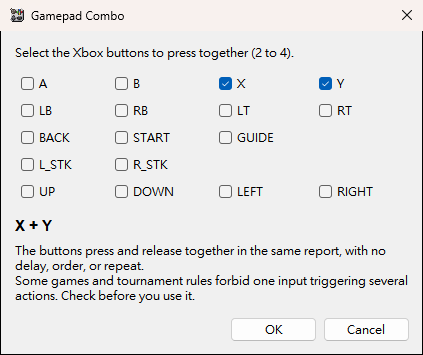
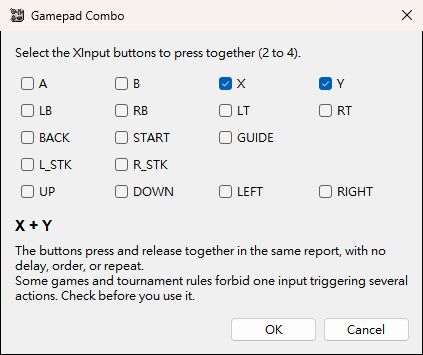
Call the virtual controller XInput instead of Xbox in the UI and docs
Mapping headers, driver hints, status text, the stick trigger mode, and the
gamepad combo picker now say XInput. The guides keep one "XInput-compatible
(Xbox)" line for recognition, and the README trademark notice is unchanged.
The three affected screenshots are updated.

Changed region(s): [[0.1844, 0.1239, 0.7069, 0.1859]]

diff --git a/src/localization.py b/src/localization.py
@@ -970,8 +970,8 @@ EN_TEXT = {
     "輸入方向": "Input Direction",
     "滾輪速度": "Wheel Speed",
     "線性滑鼠滾輪": "Linear Mouse Wheel",
-    "線性 Xbox LT": "Linear Xbox LT",
-    "線性 Xbox RT": "Linear Xbox RT",
+    "線性 XInput LT": "Linear XInput LT",
+    "線性 XInput RT": "Linear XInput RT",
     "映射層": "Layers",
     "只在「混合」模式生效。\n\n0.00 = 只保留遊戲原生震動\n0.35 = 建議起始值（遊戲 65%、音訊 35%）\n1.00 = 只保留音訊震動":
         "Only applies in Mix mode.\n\n0.00 = game rumble only\n0.35 = recommended starting point (65% game, 35% audio)\n1.00 = audio rumble only",
@@ -1371,13 +1371,13 @@ EN_TEXT = {
     "確定要刪除這個方案嗎？": "Delete this profile?",
     "自定義鍵盤映射": "Custom Key Map",
     "自定義輸入映射": "Custom Input Map",
-    "選擇「自訂按鍵」後，按下要映射的輸入。\n\n支援鍵盤單鍵、Ctrl／Shift／Alt／Win 複合鍵，以及滑鼠左鍵、右鍵與中鍵。\n例如：F12、Ctrl + S、Win + D。\n\n選擇「自訂手把組合」可讓一個按鍵同時按下 2 到 4 個 Xbox 按鍵，例如 X + Y。":
-        "Choose Shortcut, then press the input to map.\n\nSupports single keys; Ctrl/Shift/Alt/Win combinations; and left, right, or middle mouse buttons.\nExamples: F12, Ctrl + S, Win + D.\n\nChoose Gamepad Combo to have one button press 2 to 4 Xbox buttons together, such as X + Y.",
+    "選擇「自訂按鍵」後，按下要映射的輸入。\n\n支援鍵盤單鍵、Ctrl／Shift／Alt／Win 複合鍵，以及滑鼠左鍵、右鍵與中鍵。\n例如：F12、Ctrl + S、Win + D。\n\n選擇「自訂手把組合」可讓一個按鍵同時按下 2 到 4 個 XInput 按鍵，例如 X + Y。":
+        "Choose Shortcut, then press the input to map.\n\nSupports single keys; Ctrl/Shift/Alt/Win combinations; and left, right, or middle mouse buttons.\nExamples: F12, Ctrl + S, Win + D.\n\nChoose Gamepad Combo to have one button press 2 to 4 XInput buttons together, such as X + Y.",
     "等待按鍵...": "Press a key...",
     "自訂手把組合": "Gamepad Combo",
     "手把組合鍵": "Gamepad Combo",
-    "勾選要同時按下的 Xbox 按鍵（{low} 到 {high} 個）。":
-        "Select the Xbox buttons to press together ({low} to {high}).",
+    "勾選要同時按下的 XInput 按鍵（{low} 到 {high} 個）。":
+        "Select the XInput buttons to press together ({low} to {high}).",
     "尚未選擇按鍵": "No buttons selected",
     "組合內的按鍵會在同一幀一起按下、一起放開，不含延遲、順序或連發。\n部分遊戲或比賽規則禁止一鍵觸發多個動作，使用前請自行確認。":
         "The buttons press and release together in the same report, with no delay, order, or repeat.\nSome games and tournament rules forbid one input triggering several actions. Check before you use it.",
@@ -1404,8 +1404,8 @@ EN_TEXT = {
     "無法啟動安裝程式": "Could Not Start Installer",
     "ViGEmBus 安裝程式已在執行，請先在安裝視窗完成操作。":
         "The ViGEmBus installer is already running. Complete it in the installer window.",
-    "未偵測到 ViGEmBus 驅動程式。\n\nXbox／XInput 輸出需要此驅動。\n\n安裝程式會從官方來源下載 ViGEmBus，需要網路連線及系統管理員權限。\n\n是否立即執行隨附的安裝程式？":
-        "ViGEmBus was not detected.\n\nThe Xbox/XInput output requires this driver.\n\nThe installer downloads ViGEmBus from the official source and requires internet access and administrator permission.\n\nRun the bundled installer now?",
+    "未偵測到 ViGEmBus 驅動程式。\n\nXInput 輸出需要此驅動。\n\n安裝程式會從官方來源下載 ViGEmBus，需要網路連線及系統管理員權限。\n\n是否立即執行隨附的安裝程式？":
+        "ViGEmBus was not detected.\n\nThe XInput output requires this driver.\n\nThe installer downloads ViGEmBus from the official source and requires internet access and administrator permission.\n\nRun the bundled installer now?",
     "找不到 Install-ViGEmBus.bat。\n\n請確認發佈包內容完整。":
         "Install-ViGEmBus.bat was not found.\n\nMake sure the release package is complete.",
     "無法啟動 ViGEmBus 安裝程式：": "Could not start the ViGEmBus installer:",
@@ -1431,8 +1431,8 @@ EN_TEXT = {
     "連接程式未啟動": "Connector not running",
     "狀態未知": "Unknown state",
     "● ViGEmBus 驅動程式：已安裝": "● ViGEmBus driver: installed",
-    "● 未偵測到 ViGEmBus 驅動程式，目前無法建立 Xbox 虛擬控制器。":
-        "● ViGEmBus driver not found; Xbox virtual controller unavailable.",
+    "● 未偵測到 ViGEmBus 驅動程式，目前無法建立 XInput 虛擬控制器。":
+        "● ViGEmBus driver not found; XInput virtual controller unavailable.",
     "● ViGEm：正常": "● ViGEm: Ready",
     "● ViGEm：缺少": "● ViGEm: Missing",
     "● HidHide：正常": "● HidHide: Ready",
@@ -1443,10 +1443,10 @@ EN_TEXT = {
     "● HidHide：錯誤": "● HidHide: Error",
     "HidHide 狀態錯誤": "HidHide Status Error",
     "尚未安裝 HidHide": "HidHide Not Installed",
-    "未偵測到 HidHide。USB 有線模式仍可使用，但遊戲可能同時收到實體手把與虛擬 Xbox 手把。\n\n是否前往 HidHide 官方下載頁面？":
-        "HidHide was not detected. Wired USB mode can still be used, but games may receive both the physical controller and virtual Xbox controller.\n\nOpen the official HidHide download page?",
-    "未偵測到 HidHide。USB 有線模式仍可使用，但遊戲可能同時收到實體手把與虛擬 Xbox 手把。\n\n是否前往 HidHide 官方下載頁面？\n\n選擇「否」後不再自動提醒；需要時可點擊視窗下方的「HidHide：缺少」。":
-        "HidHide was not detected. Wired USB mode can still be used, but games may receive both the physical controller and virtual Xbox controller.\n\nOpen the official HidHide download page?\n\nChoose No to stop automatic reminders. You can open the download page later by clicking HidHide: Missing at the bottom of the window.",
+    "未偵測到 HidHide。USB 有線模式仍可使用，但遊戲可能同時收到實體手把與虛擬 XInput 手把。\n\n是否前往 HidHide 官方下載頁面？":
+        "HidHide was not detected. Wired USB mode can still be used, but games may receive both the physical controller and virtual XInput controller.\n\nOpen the official HidHide download page?",
+    "未偵測到 HidHide。USB 有線模式仍可使用，但遊戲可能同時收到實體手把與虛擬 XInput 手把。\n\n是否前往 HidHide 官方下載頁面？\n\n選擇「否」後不再自動提醒；需要時可點擊視窗下方的「HidHide：缺少」。":
+        "HidHide was not detected. Wired USB mode can still be used, but games may receive both the physical controller and virtual XInput controller.\n\nOpen the official HidHide download page?\n\nChoose No to stop automatic reminders. You can open the download page later by clicking HidHide: Missing at the bottom of the window.",
     "無法開啟下載頁面": "Could Not Open Download Page",
     "請手動開啟以下網址：": "Open this URL manually:",
     "設定 HidHide": "Set Up HidHide",
@@ -1457,9 +1457,9 @@ EN_TEXT = {
         "Adjustable settings were reset, but HidHide could not be disabled. Close HidHide Configuration Client and try again.",
     "無法讀取 HidHide 設定。請先關閉 HidHide Configuration Client，再重新啟動連接程式。":
         "Could not read HidHide settings. Close HidHide Configuration Client, then restart the connector.",
-    "偵測到 USB 有線手把。為避免遊戲同時收到實體 HID 與虛擬 Xbox 手把，程式可以將實體手把加入 HidHide 隱藏清單，並允許攜帶版 Python 與 Raw HID 量測器繼續讀取。":
+    "偵測到 USB 有線手把。為避免遊戲同時收到實體 HID 與虛擬 XInput 手把，程式可以將實體手把加入 HidHide 隱藏清單，並允許攜帶版 Python 與 Raw HID 量測器繼續讀取。":
         "A wired USB controller was detected. To prevent games from receiving "
-        "both the physical HID and virtual Xbox controller, the app can hide "
+        "both the physical HID and virtual XInput controller, the app can hide "
         "the physical device while allowing the portable Python runtime and "
         "Raw HID probe to read it.",
     "HidHide 全域隱藏目前關閉；繼續將會開啟它。":
@@ -1560,8 +1560,8 @@ EN_TEXT = {
         "esptool flashing failed. Exit code: ",
     "偵測到尚未儲存的設定變更。\n\n是否先儲存設定，再重新啟動連接程式？\n\n是：儲存後重新啟動\n否：不儲存，直接重新啟動\n取消：返回設定畫面":
         "Unsaved changes were detected.\n\nSave before restarting the connector?\n\nYes: save and restart\nNo: restart without saving\nCancel: return to settings",
-    "未偵測到 ViGEmBus 驅動程式。\n\n目前無法啟動 Xbox 虛擬控制器。":
-        "ViGEmBus was not found.\n\nThe Xbox virtual controller cannot start.",
+    "未偵測到 ViGEmBus 驅動程式。\n\n目前無法啟動 XInput 虛擬控制器。":
+        "ViGEmBus was not found.\n\nThe XInput virtual controller cannot start.",
     "找不到 config.ini。\n請將 config_gui.py 放在主程式相同資料夾。":
         "config.ini was not found.\nPlace config_gui.py in the application folder.",
     "左搖桿中心死區必須介於 0.00 ～ 1.00": "Left center DZ must be 0.00–1.00.",
@@ -1632,11 +1632,11 @@ EN_TEXT = {
     "加速度抑制 必須介於 0 ～ 100。": "Accel suppression must be 0–100.",
     "自適應死區 必須介於 0 ～ 100。": "Adaptive DZ must be 0–100.",
     "按鍵防晃 ms 必須介於 0 ～ 120。": "Button freeze must be 0–120 ms.",
-    "按住：只有保持指定手把按鍵時啟用陀螺儀。\n\n切換：按一下啟用，再按一下關閉。\n\n啟動鍵原本的 Xbox／鍵盤映射仍會保留。":
-        "Hold: gyro is active only while the selected controller button is held.\n\nToggle: press once to enable and again to disable.\n\nThe button's original Xbox/keyboard mapping is preserved.",
-    "關閉：不產生任何陀螺儀映射輸出。\n\n按住：只有保持指定手把按鍵時啟用陀螺儀。\n\n切換：按一下啟用，再按一下關閉。\n\n啟動鍵原本的 Xbox／鍵盤映射仍會保留。":
-        "Off: no gyro-mapping output is produced.\n\nHold: gyro is active only while the selected controller button is held.\n\nToggle: press once to enable and again to disable.\n\nThe button's original Xbox/keyboard mapping is preserved.",
-    "關閉：不產生任何陀螺儀映射輸出。\n\n按住：選定按鍵符合任一／全部條件時啟用。\n\n切換：條件由未成立變成成立時切換一次。\n\n可選多顆按鍵；原本的 Xbox／鍵盤映射仍會保留。":
+    "按住：只有保持指定手把按鍵時啟用陀螺儀。\n\n切換：按一下啟用，再按一下關閉。\n\n啟動鍵原本的 XInput／鍵盤映射仍會保留。":
+        "Hold: gyro is active only while the selected controller button is held.\n\nToggle: press once to enable and again to disable.\n\nThe button's original XInput/keyboard mapping is preserved.",
+    "關閉：不產生任何陀螺儀映射輸出。\n\n按住：只有保持指定手把按鍵時啟用陀螺儀。\n\n切換：按一下啟用，再按一下關閉。\n\n啟動鍵原本的 XInput／鍵盤映射仍會保留。":
+        "Off: no gyro-mapping output is produced.\n\nHold: gyro is active only while the selected controller button is held.\n\nToggle: press once to enable and again to disable.\n\nThe button's original XInput/keyboard mapping is preserved.",
+    "關閉：不產生任何陀螺儀映射輸出。\n\n按住：選定按鍵符合任一／全部條件時啟用。\n\n切換：條件由未成立變成成立時切換一次。\n\n可選多顆按鍵；原本的 XInput／鍵盤映射仍會保留。":
         "Off: no gyro output.\n\nHold: active while the selected Any/All rule is satisfied.\n\nToggle: switches once when the rule changes from false to true.\n\nMultiple buttons are supported and their original mappings remain active.",    "回中：依陀螺儀角速度輸出，停止轉動便自動回中，適合瞄準。\n\n傾斜：以手把相對於啟用瞬間的傾斜角度控制搖桿，適合方向盤；僅支援左右搖桿輸出。\n\n自訂重設按鍵會專門用於重設中立，不再送出原本的遊戲映射。":
         "Center maps angular speed and recenters when rotation stops.\n\nTilt maps angle relative to activation and supports stick output only.\n\nThe custom recenter button is intercepted and no longer sends its game mapping.",
     "回中模式：陀螺儀角速度轉成搖桿偏移的倍率。\n僅用於回中模式。":

diff --git a/src/config_gui.py b/src/config_gui.py
@@ -4602,7 +4602,7 @@ class ConfigGUI:
         confirmed = messagebox.askyesno(
             "安裝 ViGEmBus",
             "未偵測到 ViGEmBus 驅動程式。\n\n"
-            "Xbox／XInput 輸出需要此驅動。\n\n"
+            "XInput 輸出需要此驅動。\n\n"
             "安裝程式會從官方來源下載 ViGEmBus，需要網路連線及"
             "系統管理員權限。\n\n"
             "是否立即執行隨附的安裝程式？"
@@ -5031,7 +5031,7 @@ class ConfigGUI:
                 self.tr("尚未安裝 HidHide"),
                 self.tr(
                     "未偵測到 HidHide。USB 有線模式仍可使用，但遊戲可能同時收到"
-                    "實體手把與虛擬 Xbox 手把。\n\n是否前往 HidHide 官方下載頁面？"
+                    "實體手把與虛擬 XInput 手把。\n\n是否前往 HidHide 官方下載頁面？"
                     "\n\n選擇「否」後不再自動提醒；需要時可點擊視窗下方的"
                     "「HidHide：缺少」。"
                 ),
@@ -5053,7 +5053,7 @@ class ConfigGUI:
             return True
 
         message = self.tr(
-            "偵測到 USB 有線手把。為避免遊戲同時收到實體 HID 與虛擬 Xbox 手把，"
+            "偵測到 USB 有線手把。為避免遊戲同時收到實體 HID 與虛擬 XInput 手把，"
             "程式可以將實體手把加入 HidHide 隱藏清單，並允許攜帶版 Python "
             "與 Raw HID 量測器繼續讀取。"
         )
@@ -7725,8 +7725,8 @@ class ConfigGUI:
     def stick_mode_label(self, mode):
         labels = {
             "MOUSE_WHEEL_LINEAR": "線性滑鼠滾輪",
-            "XINPUT_LT_LINEAR": "線性 Xbox LT",
-            "XINPUT_RT_LINEAR": "線性 Xbox RT",
+            "XINPUT_LT_LINEAR": "線性 XInput LT",
+            "XINPUT_RT_LINEAR": "線性 XInput RT",
         }
         return self.tr(labels.get(str(mode), str(mode)))
 
@@ -8434,7 +8434,7 @@ class ConfigGUI:
             self.open_gamepad_combo_dialog(variable)
 
     def open_gamepad_combo_dialog(self, variable):
-        """Pick 2-4 Xbox buttons that one input presses in the same report."""
+        """Pick 2-4 XInput buttons that one input presses in the same report."""
         self._track_custom_mapping_variable(variable)
         previous_mapping = getattr(variable, "_s2p_last_valid_mapping", "NONE")
         state = {"committed": False}
@@ -8448,7 +8448,7 @@ class ConfigGUI:
         columns = 4
         ttk.Label(
             frame,
-            text=self.tr("勾選要同時按下的 Xbox 按鍵（{low} 到 {high} 個）。").format(
+            text=self.tr("勾選要同時按下的 XInput 按鍵（{low} 到 {high} 個）。").format(
                 low=COMBO_MIN_MEMBERS, high=COMBO_MAX_MEMBERS,
             ),
         ).grid(row=0, column=0, columnspan=columns, sticky="w", pady=(0, 8))
@@ -9977,7 +9977,7 @@ class ConfigGUI:
         ttk.Label(button_inner, text="Switch 2 Pro", anchor="e").grid(
             row=0, column=0, sticky="e", padx=(0, 8), pady=(0, 5)
         )
-        ttk.Label(button_inner, text="XInput / Xbox", anchor="w").grid(
+        ttk.Label(button_inner, text="XInput", anchor="w").grid(
             row=0, column=1, sticky="w", pady=(0, 5)
         )
         button_vars = {}

diff --git a/src/gui_sections/mapping_buttons.py b/src/gui_sections/mapping_buttons.py
@@ -37,7 +37,7 @@ def build_mapping_buttons_section(gui, right_frame):
     ttk.Label(mapping_frame, text="Switch 2 Pro").grid(
         row=0, column=0, sticky="e", padx=(0, 8), pady=(0, 4)
     )
-    ttk.Label(mapping_frame, text="XInput / Xbox").grid(
+    ttk.Label(mapping_frame, text="XInput").grid(
         row=0, column=1, sticky="w", pady=(0, 4)
     )
 
@@ -102,7 +102,7 @@ def build_mapping_buttons_section(gui, right_frame):
         "支援鍵盤單鍵、Ctrl／Shift／Alt／Win 複合鍵，"
         "以及滑鼠左鍵、右鍵與中鍵。\n"
         "例如：F12、Ctrl + S、Win + D。\n\n"
-        "選擇「自訂手把組合」可讓一個按鍵同時按下 2 到 4 個 Xbox 按鍵，"
+        "選擇「自訂手把組合」可讓一個按鍵同時按下 2 到 4 個 XInput 按鍵，"
         "例如 X + Y。"
     ).place(
         relx=1.0,

diff --git a/tests/test_language_audit.py b/tests/test_language_audit.py
@@ -155,7 +155,7 @@ class LanguageAuditTests(unittest.TestCase):
             "按鍵映射", "搖桿方向映射", "左搖桿", "右搖桿",
             "模式", "死區", "觸發", "放開", "滑鼠速度", "中心死區",
             "輸入方向", "映射為右搖桿", "映射為左搖桿", "映射為滑鼠",
-            "線性滑鼠滾輪", "線性 Xbox LT", "線性 Xbox RT",
+            "線性滑鼠滾輪", "線性 XInput LT", "線性 XInput RT",
             "複製主要映射", "還原", "儲存", "取消",
         )
         for source in texts:

diff --git a/src/main.py b/src/main.py
@@ -404,7 +404,7 @@ def _run_connector():
             charging=False,
         )
         print()
-        print(tr("無法建立 Xbox 虛擬控制器。", "Could not create the Xbox virtual controller."))
+        print(tr("無法建立 XInput 虛擬控制器。", "Could not create the XInput virtual controller."))
         print(tr("請確認 ViGEmBus 驅動程式已正確安裝。", "Make sure the ViGEmBus driver is installed correctly."))
         print()
         print(tr(f"錯誤資訊：{exc}", f"Error details: {exc}"))

diff --git a/src/gui_sections/gyro.py b/src/gui_sections/gyro.py
@@ -57,7 +57,7 @@ def build_gyro_section(gui, mapping_notebook):
         "關閉：不產生任何陀螺儀映射輸出。\n\n"
         "按住：選定按鍵符合任一／全部條件時啟用。\n\n"
         "切換：條件由未成立變成成立時切換一次。\n\n"
-        "可選多顆按鍵；原本的 Xbox／鍵盤映射仍會保留。"
+        "可選多顆按鍵；原本的 XInput／鍵盤映射仍會保留。"
     ).grid(row=0, column=6, padx=(2, 0))
 
     def update_activation_button_state(*_args):

diff --git a/tests/test_readable_combobox.py b/tests/test_readable_combobox.py
@@ -108,7 +108,7 @@ class ReadableComboboxTests(unittest.TestCase):
     def test_native_open_list_fits_longest_row_and_scrollbar(self):
         text = "Linear Mouse Wheel"
         combo = ttk.Combobox(
-            self.root, values=("4WAY", text, "Linear Xbox RT"),
+            self.root, values=("4WAY", text, "Linear XInput RT"),
             width=6, height=2, state="readonly",
         )
         combo.current(0)

diff --git a/RELEASE_NOTES_v0.8.2.md b/RELEASE_NOTES_v0.8.2.md
@@ -26,7 +26,7 @@ to bring over your profiles, layers, and calibration. The
 - Center gyro uses a radial deadzone and offers button spike suppression. The default button stabilization mode is Freeze Output. Gyro stick anti-deadzone now defaults to `0`. The bundled FPS-COMP preset uses `10 ms` smoothing.
 - Bundled S2P-FW `1.0.9` brings the radial deadzone, spike suppression, independent gyro compensation, and gamepad combos to Android USB HID standalone mode. Use **Flash FW** in the main app, then write your profile to the ESP32.
 - Gamepad Tester: **S2P Mobile Gamepad (Raw HID)** now shows every button and the D-pad, and works in the Aim Test.
-- **Gamepad Combo** lets one button or stick direction press 2 to 4 Xbox buttons together, such as X + Y. The buttons press and release in the same report with no delay, order, or repeat. Combos also work in mapping layers and in ESP32 standalone mode.
+- **Gamepad Combo** lets one button or stick direction press 2 to 4 XInput buttons together, such as X + Y. The buttons press and release in the same report with no delay, order, or repeat. Combos also work in mapping layers and in ESP32 standalone mode.
 - Gamepad Tester parameters, the Aim Test settings, and the compensation windows now work like the main app: drag a parameter's name to change it, and right-click for **Restore Saved** or **Restore Default**.
 - Dialogs open centered on their window instead of the screen.
 - If the ESP32 disconnects, the connector window stays open and shows why.
@@ -55,7 +55,7 @@ to bring over your profiles, layers, and calibration. The
 - 回中模式改用圓形死區，按鍵防晃可選「抑制突波」，預設為「暫停輸出」。陀螺儀搖桿反死區預設改為 `0`。內建 FPS-COMP 方案的平滑值調為 `10 ms`。
 - 隨附 S2P-FW `1.0.9`，Android USB HID 獨立模式支援圓形死區、抑制突波、獨立的陀螺儀輸出補償及手把組合鍵。在主視窗刷入新韌體後，再將設定檔寫入 ESP32。
 - 手把測試：「S2P Mobile Gamepad（Raw HID）」現在會顯示所有按鍵與十字鍵，也能用於瞄準測試。
-- 新增「自訂手把組合」：一個按鍵或搖桿方向可同時按下 2 到 4 個 Xbox 按鍵，例如 X + Y。組合內的按鍵在同一幀一起按下、一起放開，不含延遲、順序或連發。映射層與 ESP32 獨立模式也能使用。
+- 新增「自訂手把組合」：一個按鍵或搖桿方向可同時按下 2 到 4 個 XInput 按鍵，例如 X + Y。組合內的按鍵在同一幀一起按下、一起放開，不含延遲、順序或連發。映射層與 ESP32 獨立模式也能使用。
 - 手把測試、瞄準測試設定與補償視窗的參數改成和主程式一樣：在參數名稱上拖曳可調整數值，按右鍵可選「還原上次儲存」或「還原系統預設」。
 - 提示視窗改為顯示在所屬視窗中央，不再出現在螢幕中央。
 - ESP32 中斷時，連接程式視窗會保留並顯示原因。

diff --git a/manual/USER_GUIDE.md b/manual/USER_GUIDE.md
@@ -2,7 +2,7 @@
 
 [繁體中文](USER_GUIDE_zh-TW.md)
 
-S2P-XInput-Lite turns a Switch 2 Pro Controller into an Xbox (XInput)
+S2P-XInput-Lite turns a Switch 2 Pro Controller into an XInput-compatible (Xbox)
 controller that Windows games accept directly. It provides stick curves,
 button and direction mapping, mapping layers, gyro, rumble, and audio-driven
 rumble. The bundled Gamepad Tester checks input, rumble, and report rate, and
@@ -280,14 +280,14 @@ enlarge the deadzone for it (see the note in [1.2](#12-install-and-first-launch)
 ### 4.1 Buttons
 
 The **Buttons** tab (shown in the [main window screenshot](#2-main-window-and-profiles))
-maps the controller's physical buttons to Xbox outputs.
+maps the controller's physical buttons to XInput outputs.
 
 - The left column lists the Switch 2 Pro buttons, and each menu on the right
-  chooses the XInput / Xbox output.
+  chooses the XInput output.
 - `NONE` sends nothing.
 - **Reset** restores this tab's mapping.
-- A typical profile swaps A/B and X/Y to match Xbox button positions. Extra
-  buttons such as CAPT, C, GR, and GL can map to Xbox buttons, stick clicks,
+- A typical profile swaps A/B and X/Y to match XInput button positions. Extra
+  buttons such as CAPT, C, GR, and GL can map to XInput buttons, stick clicks,
   or `NONE`.
 - With a menu open, scroll the list with the mouse wheel. Scrolling does not
   pick an option. After choosing one, select **Save/Apply**.
@@ -301,12 +301,12 @@ key combination to map, such as F12, Ctrl+S, or Ctrl+Shift+S. The field shows
 short forms such as `KB:1`, `KB:Ctrl+S`, and `M:Wheel↓`. Hover over it to see
 the full mapping.
 
-#### Press several Xbox buttons at once
+#### Press several XInput buttons at once
 
 ![Choosing a gamepad combo](assets/v0.8.2/gamepad-combo.png)
 
 Choose **Gamepad Combo** in a button or Stick Map menu to have one input press
-2 to 4 Xbox buttons together, such as X + Y. Select the buttons and then **OK**.
+2 to 4 XInput buttons together, such as X + Y. Select the buttons and then **OK**.
 The field shows the combo as `Pad:X+Y`. Choose **Gamepad Combo** again to
 change it.
 
@@ -442,7 +442,7 @@ explains it in detail.
 ### 6.1 Activation
 
 - **Button**: select **…** to choose one or more activation buttons. Their
-  original Xbox or keyboard mappings still apply.
+  original XInput or keyboard mappings still apply.
 - **Off**: no gyro output.
 - **Hold**: active while an activation button is held.
 - **Toggle**: each press turns the gyro on or off.
